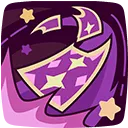
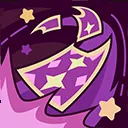
Tighten wikiroco freshness validation

Changed region(s): [[0.0, 0.0, 1.0, 1.0], [0.5938, 0.5625, 1.0, 1.0]]

diff --git a/SkillDatabase.cs b/SkillDatabase.cs
@@ -63,6 +63,7 @@ internal static class SkillDatabase
 
         return string.IsNullOrWhiteSpace(localization?.Name) ||
             localization.Description is null ||
+            (!string.IsNullOrWhiteSpace(skill.DescriptionZh) && string.IsNullOrWhiteSpace(localization.Description)) ||
             !string.Equals(localization.TranslatedFromHash, skill.SourceHash, StringComparison.Ordinal)
                 ? null
                 : localization;
@@ -80,7 +81,7 @@ internal static class SkillDatabase
             data.Source?.Provider != "wikiroco" ||
             data.Source.Url != "https://wikiroco.com/api/skills" ||
             data.Source.ItemCount != data.Skills.Count ||
-            data.Source.SourceCount != data.Skills.Count)
+            data.Source.SourceCount < data.Skills.Count)
         {
             throw new InvalidOperationException("Bundled skill database has an unsupported schema.");
         }